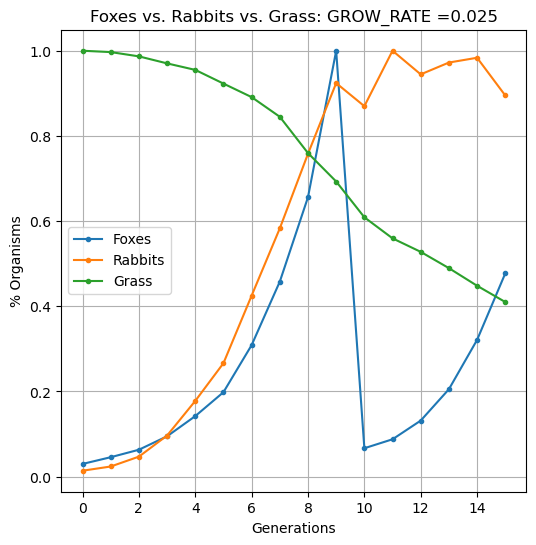
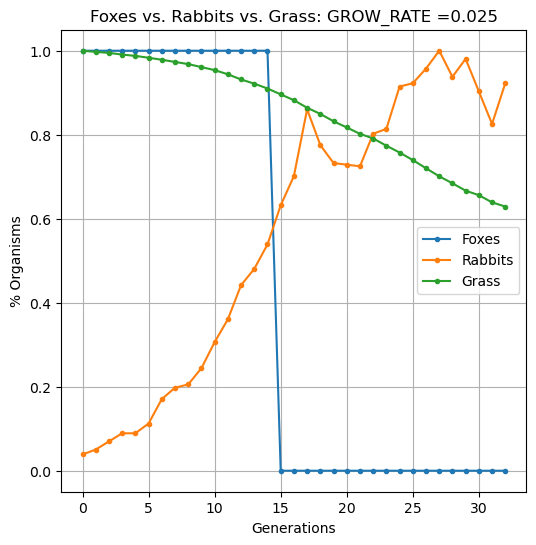
my file

diff --git a/ic_alife.py b/ic_alife.py
@@ -41,7 +41,6 @@ class Animal:
         eats: the id #s of the animal's food
         fsize: the size of the field
         """
-
         self.fsize = fsize
         self.x = rnd.randrange(0, self.fsize)
         self.y = rnd.randrange(0, self.fsize)
@@ -63,6 +62,8 @@ class Animal:
     def eat(self, amount):
         """Feed the animal, taking in the amount"""
         self.eaten += amount
+        if self.id == 3:
+            print(self.id, self.eaten)
 
     def move(self):
         """ Move up, down, left, right randomly """
@@ -122,31 +123,63 @@ class Field:
         self.grass_rate = grass_rate
 
     def add_animal(self, animal):
-        """ A new animal is added to the field """
+        """ Add a new animal to the field """
         self.animals.append(animal)
+        self.field[animal.x][animal.y] = animal.id
+        print(f"Added animal {animal.id} at ({animal.x}, {animal.y})")
+        print(self.field)
 
     def move(self):
         """ Animals move """
         for r in self.animals:
-            # set the field equal to 0 when the animal moves away
-            # because the rabbit ate the grass, and/or the fox ate the rabbit
-            self.field[r.x, r.y] = 0
             r.move()
 
+    # def eat(self):
+    #     """ Animals eat (if they find grass where they are) """
+    #     for animal in self.animals:
+    #         self.field[animal.x, animal.y] = animal.id
+    #
+    #         if self.field[animal.x, animal.y] in animal.eats: # rabbit eating grass
+    #             animal.eat(self.field[animal.x, animal.y])
+    #             self.field[animal.x, animal.y] = 0
     def eat(self):
         """ Animals eat (if they find grass where they are) """
         for animal in self.animals:
-            if self.field[animal.x, animal.y] in animal.eats: # rabbit eating grass
-                animal.eat(self.field[animal.x, animal.y])
-                self.field[animal.x, animal.y] = animal.id
+            for other in self.animals:
+                if other != animal and other.id in animal.eats and animal.x == other.x and animal.y == other.y:
+                    # animal can eat other_animal
+                    #print(f"Animal {animal.id} found food at ({animal.x}, {animal.y})")
+                    animal.eat(other.id)
+                    self.field[animal.x][animal.y] = animal.id
+                    print("fox eating rabbit")
+            # if self.field[animal.x][animal.y] in animal.eats:
+            #     if animal.id == 2:
+            #         animal.eat(self.field[animal.x][animal.y])
+            #         self.field[animal.x][animal.y] = 0
+
+            # if the thing at the current position is what the animal
+            # eats, then animal will eat the thing and the current
+            # position becomes whatever the animal is
+            if self.field[animal.x][animal.y] in animal.eats:
+                #print(f"Animal {animal.id} found food at ({animal.x}, {animal.y})")
+
+                if animal.id == 3:
+                    animal.eat(self.field[animal.x][animal.y])
+                    self.field[animal.x][animal.y] = animal.id
+                    print(f"Fox {animal.id} is eating Rabbit")
+                else:
+                    animal.eat(self.field[animal.x][animal.y])
+                    self.field[animal.x][animal.y] = 0
+                    # print(f"Bunny {animal.id} is eating grass")
 
     def survive(self):
         """ Animals who eat may live to eat another day, depending on their cycle survivals """
         self.animals = [r for r in self.animals if r.survive()]
 
     def reproduce(self):
-        """ Rabbits reproduce like rabbits. """
-        born = [animal.reproduce() for animal in self.animals for _ in range(rnd.randint(0, animal.max_offspring))]
+        """ Animals reproduce if they have eaten """
+        reproduce_anim = [animal for animal in self.animals if animal.eaten > 0]
+        born = [animal.reproduce() for animal in reproduce_anim for _ in range(rnd.randint(0, animal.max_offspring))]
         self.animals.extend(born)
 
         # Capture field state for historical tracking
@@ -172,7 +205,7 @@ class Field:
 
     def get_animals(self, id):
         """2D array where each element represents presence/absence of animal w/ ID"""
-        animals = np.ones(shape=(self.size, self.size), dtype=int)
+        animals = np.zeros(shape=(self.size, self.size), dtype=int)
         for r in self.animals:
             if r.id == id:
                 animals[r.x, r.y] = r.id
@@ -199,8 +232,8 @@ class Field:
 
     def generation(self):
         """ Run one generation of rabbits """
-        self.move()
         self.eat()
+        self.move()
         self.survive()
         self.reproduce()
         self.grow()
@@ -284,7 +317,6 @@ def animate(i, field, im):
         rabbits = field.get_animals(2)
         foxes = field.get_animals(3)
         total = np.maximum(field.field, np.maximum(rabbits, foxes))
-
         im = plt.imshow(total, cmap=my_cmap, interpolation='none', vmin=0, vmax=4)
         plt.title("generation = " + str(i))
         return im,
@@ -339,15 +371,26 @@ def main():
     # Create the ecosystem
     field = Field(fsize, grass_rate)
 
-    # add rabbit
-    for _ in range(10):
-        field.add_animal(Animal(2, 2, 1, 2, (1,), fsize))
+    # # add rabbit
+    # for _ in range(5):
+    #     field.add_animal(Animal(2, 3, 1, 2, (1,), fsize))
+    #
+    # # add fox
+    # for _ in range(10):
+    #     field.add_animal(Animal(3, 1, 2, 75, (2,), fsize))
+    #
+    #     #(id, max_offspring, speed, starve, eats, fsize):
 
-    # add fox
     for _ in range(10):
-        field.add_animal(Animal(3, 1, 2, 10, (2,), fsize))
+        rabbit = Animal(2, 2, 1, 1, (1,), fsize)
+        field.add_animal(rabbit)
+        field.field[rabbit.x][rabbit.y] = 2
 
-        #(id, max_offspring, speed, starve, eats, fsize):
+    # add foxes
+    for _ in range(1):
+        fox = Animal(3, 1, 2, 15, (2, ), fsize)
+        field.add_animal(fox)
+        field.field[fox.x][fox.y] = 3
 
     # create the initial array of grass (value = 1)
     array = np.ones(shape=(fsize, fsize), dtype=int)
